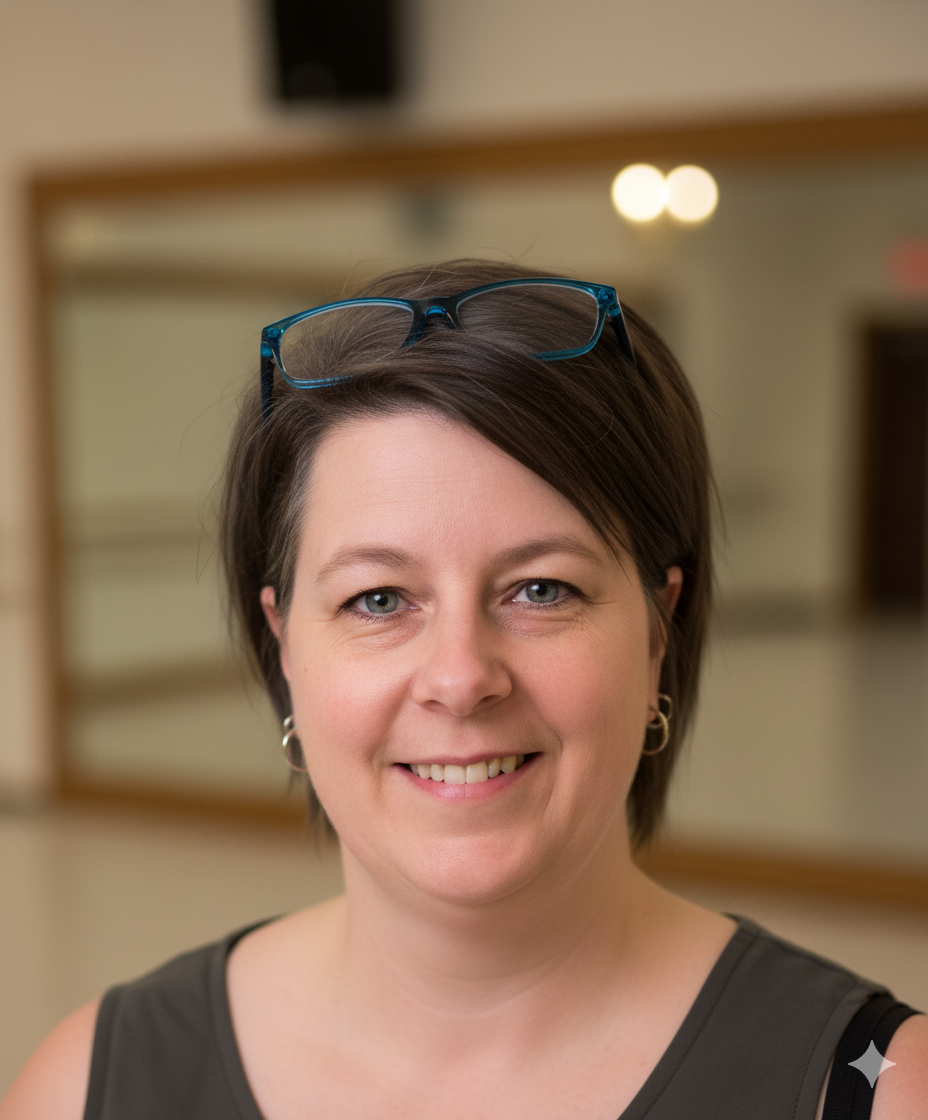
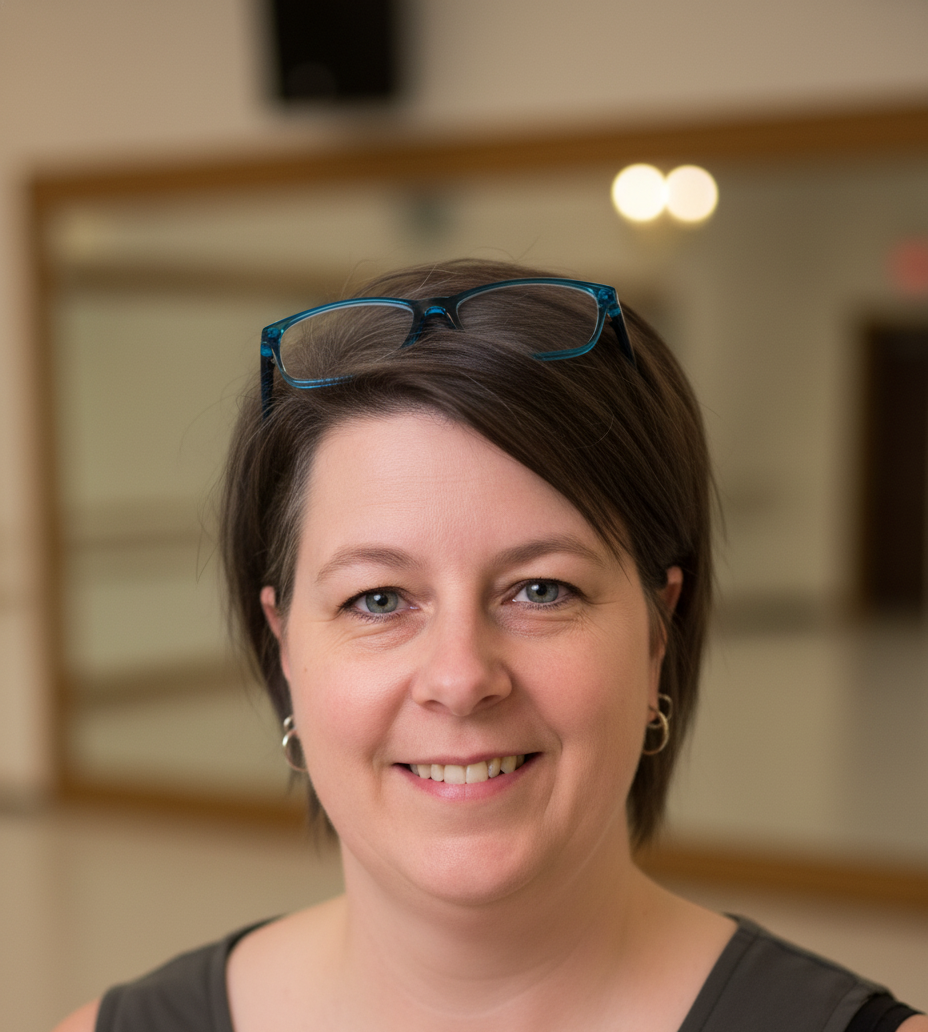
Fix instructors

diff --git a/src/App.tsx b/src/App.tsx
@@ -510,7 +510,7 @@ function App() {
                 <div className="w-48 h-48 md:w-56 md:h-56 rounded-full border-4 border-primary/30 p-1 shadow-[0_0_30px_rgba(220,38,38,0.2)]">
                   {/* REMPLACER PAR LA VRAIE PHOTO : src={`${baseUrl}images/ivan.jpg`} */}
                   <div className="w-full h-full rounded-full bg-black overflow-hidden flex items-center justify-center">
-                    <img src={`${baseUrl}images/teacher1.png`} alt="Ivan Salazar" className="w-full h-full object-cover" />
+                    <img src={`${baseUrl}images/teacher1.png`} alt="Ivan Salazar" className="w-full h-full object-contain" />
                   </div>
                 </div>
               </div>
@@ -541,7 +541,7 @@ function App() {
             ].map((instructor, idx) => (
               <div key={idx} className="bg-black/50 rounded-lg overflow-hidden border border-primary/20 hover:border-primary/50 transition-all duration-300 fade-in group" style={{ animationDelay: `${idx * 0.1}s` }}>
                 <div className="h-64 bg-gradient-to-br from-primary/10 to-secondary flex items-center justify-center relative overflow-hidden">
-                  <img src={`${baseUrl}images/${instructor.image}`} alt={instructor.name} className="object-contain transition-transform duration-500 group-hover:scale-110" />
+                  <img src={`${baseUrl}images/${instructor.image}`} alt={instructor.name} className="h-full max-w-full object-contain transition-transform duration-500" />
                 </div>
                 <div className="p-6 text-center">
                   <h3 className="font-script text-2xl text-primary mb-2">{instructor.name}</h3>
